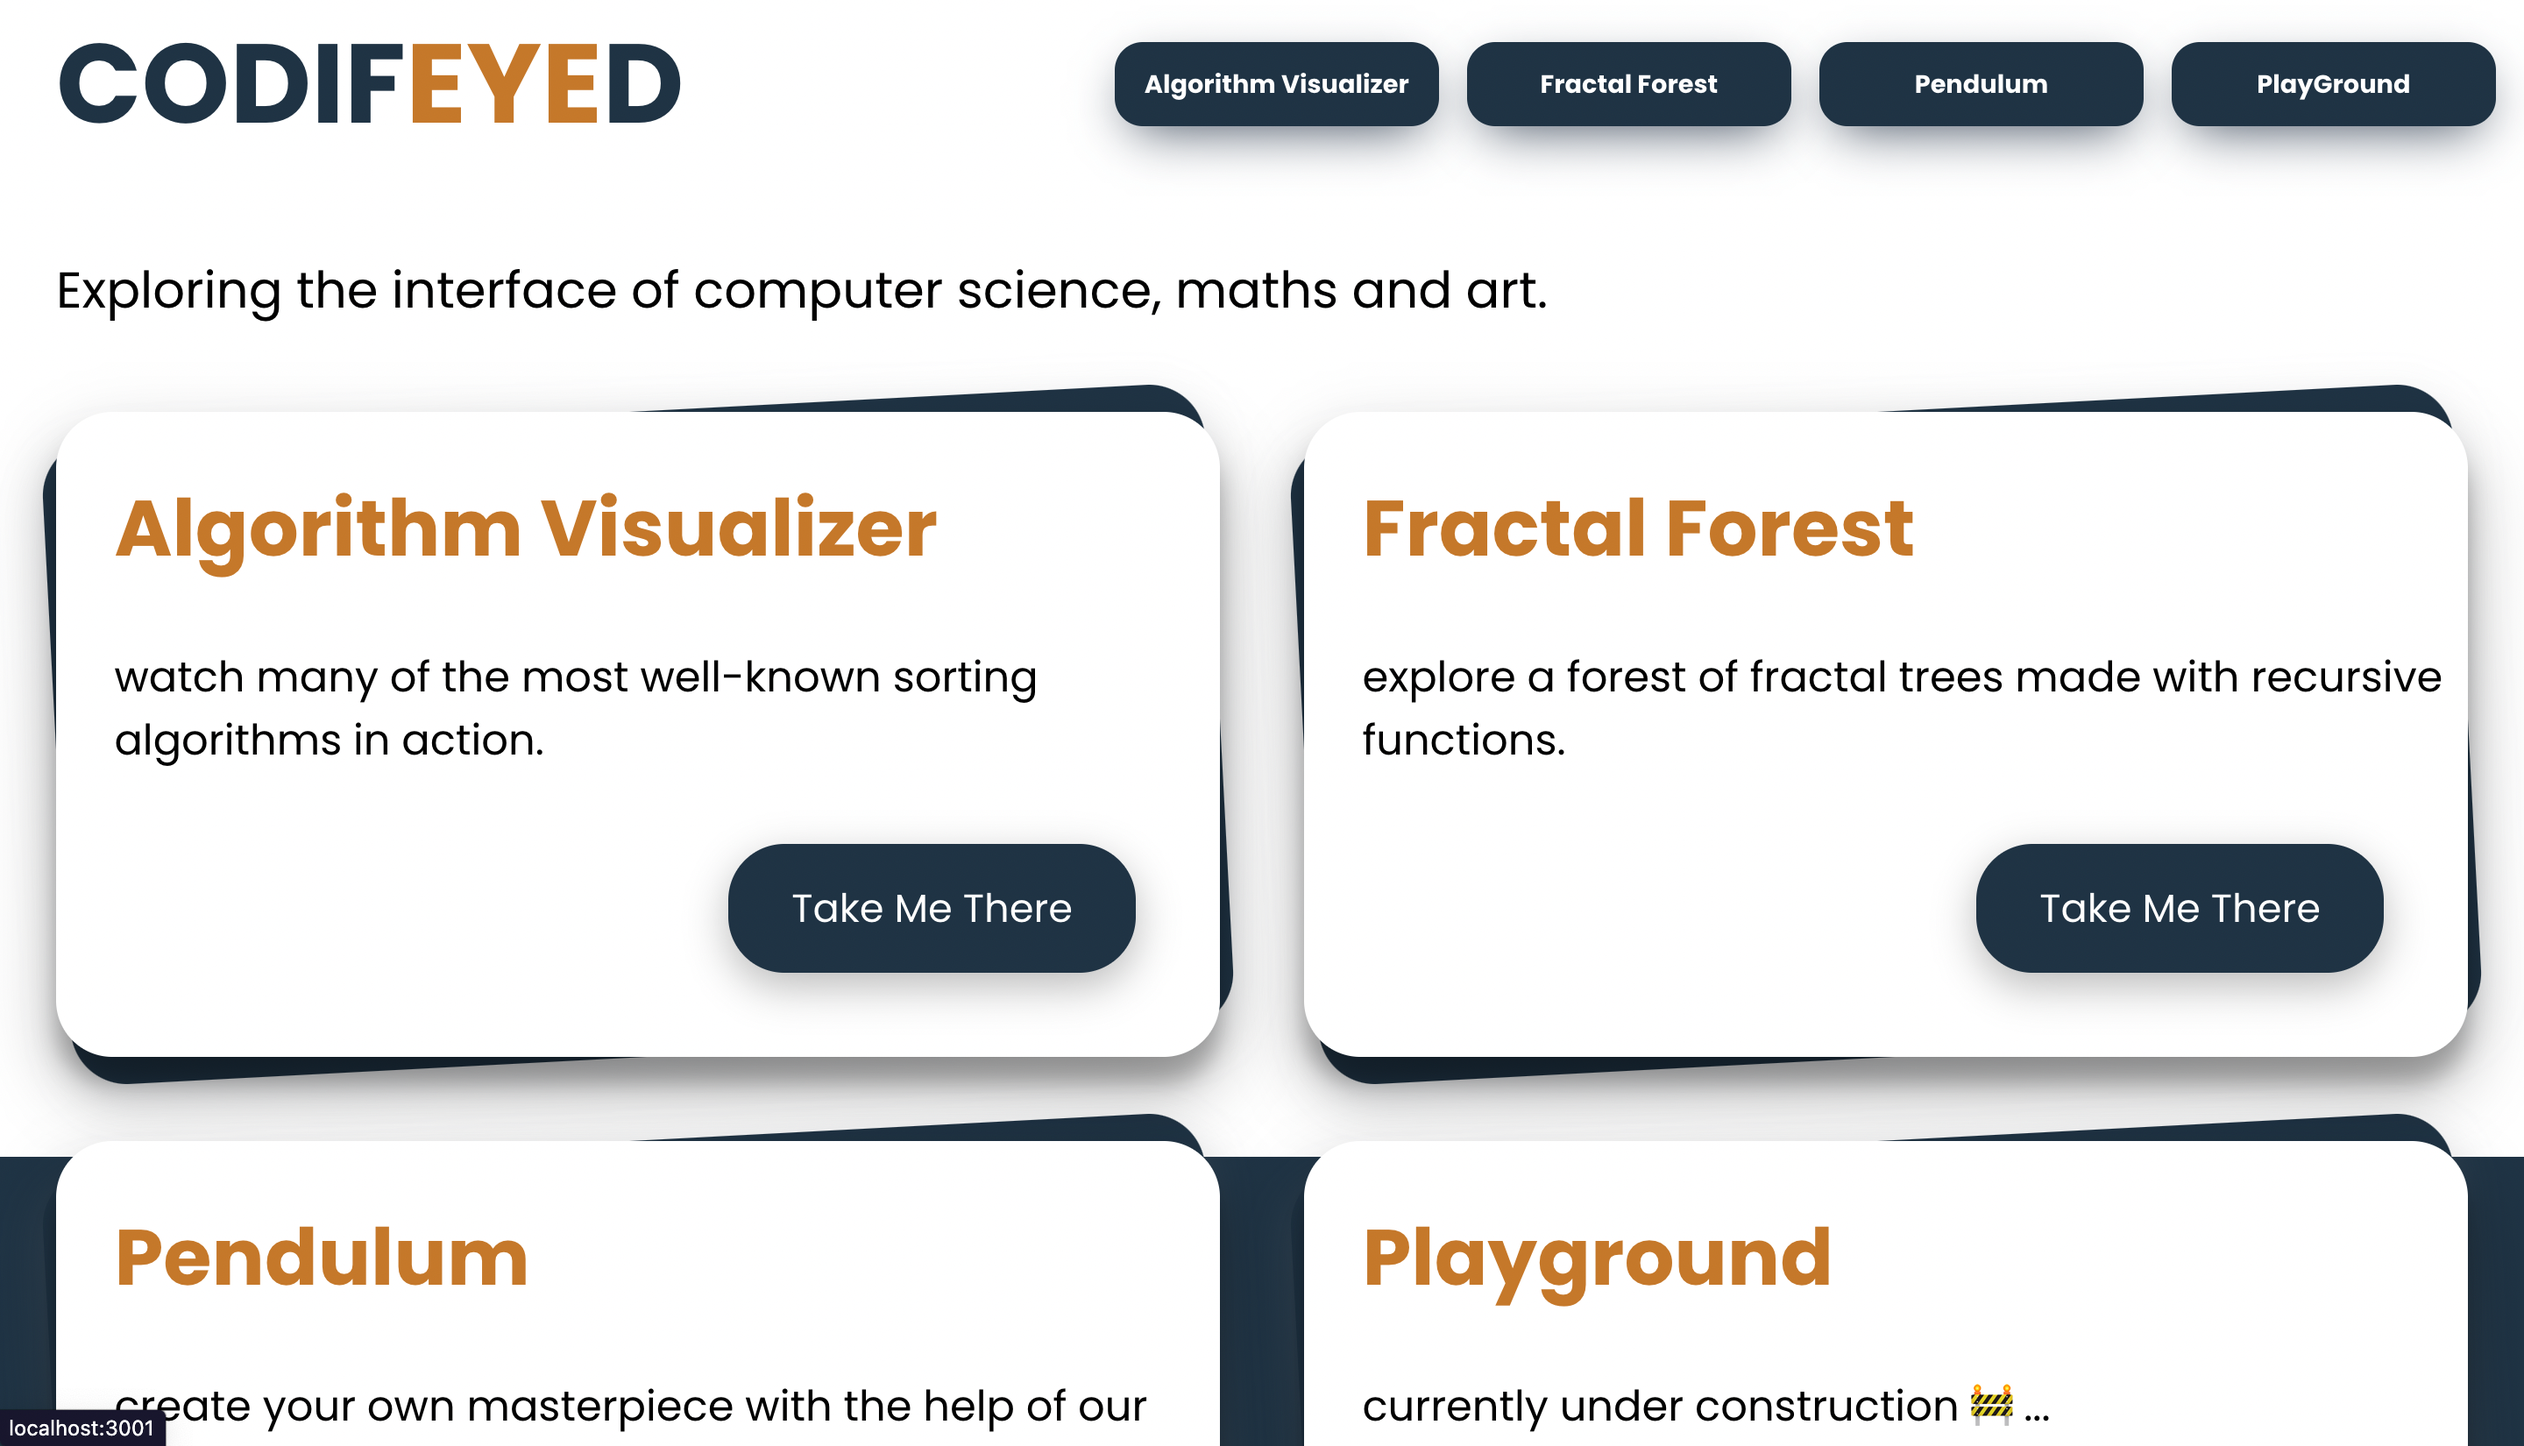
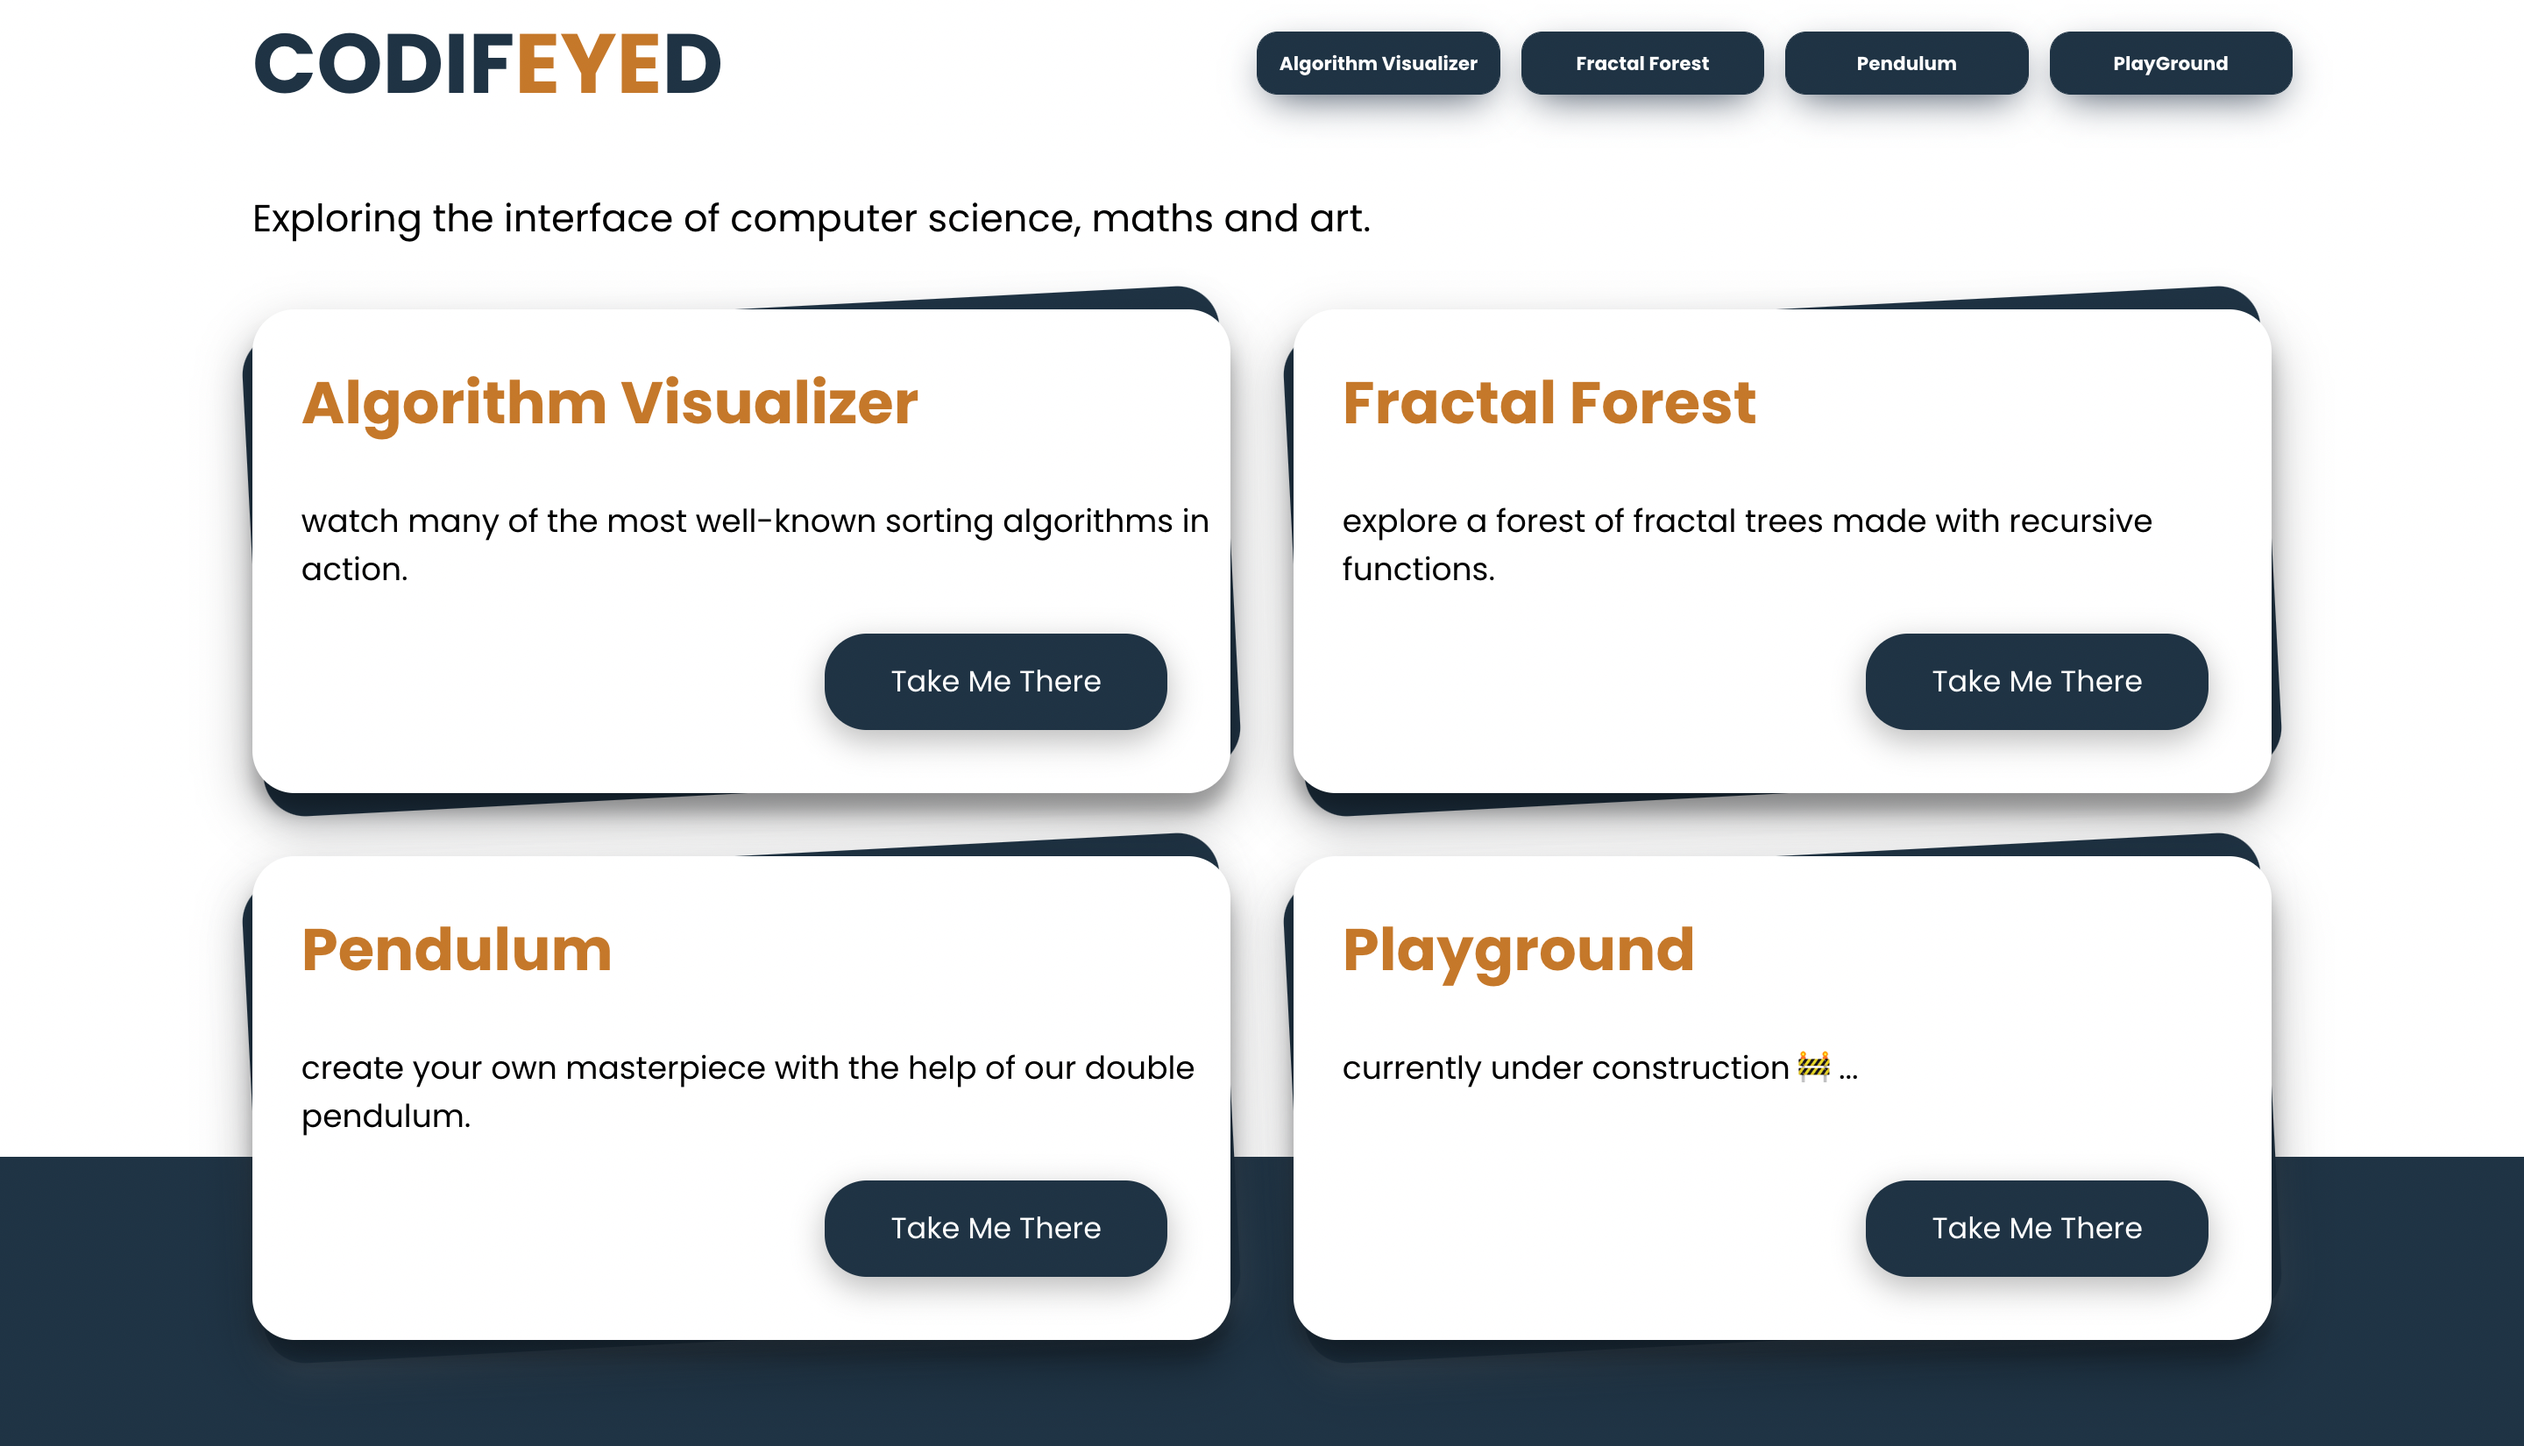
updated initial structure

diff --git a/public/Logos.js b/public/Logos.js
@@ -10,15 +10,15 @@ export const PrismaLogo = () => {
       <g fill='#ecf0f3'>
         <path d='m199.202 85.75h8.638v-31.662h-8.638zm-.367-39.847c0-2.813 1.567-4.219 4.701-4.219 3.133 0 4.701 1.406 4.701 4.219 0 1.341-.392 2.384-1.175 3.13-.784.746-1.959 1.118-3.526 1.118-3.134 0-4.701-1.416-4.701-4.248z' />
         <path
-          clip-rule='evenodd'
+          clipRule='evenodd'
           d='m164.253 67.483c2.786-2.36 4.178-5.767 4.178-10.223 0-4.286-1.307-7.51-3.922-9.672-2.615-2.16-6.433-3.242-11.456-3.242h-13.225v41.404h8.779v-14.727h3.767c5.135 0 9.095-1.179 11.879-3.54zm-12.757-3.653h-2.889v-12.29h3.993c2.398 0 4.158.49 5.282 1.472 1.123.982 1.685 2.502 1.685 4.56 0 2.038-.67 3.591-2.011 4.658s-3.36 1.6-6.06 1.6z'
-          fill-rule='evenodd'
+          fillRule='evenodd'
         />
         <path d='m194.62 53.748c-.774-.17-1.746-.255-2.917-.255-1.964 0-3.781.543-5.451 1.628a11.908 11.908 0 0 0 -3.98 4.291h-.424l-1.275-5.324h-6.542v31.662h8.638v-16.114c0-2.549.769-4.532 2.307-5.948 1.54-1.416 3.687-2.124 6.444-2.124 1.001 0 1.85.095 2.549.283zm40.245 30.02c2.257-1.7 3.385-4.172 3.385-7.42 0-1.567-.273-2.917-.821-4.05-.547-1.133-1.398-2.133-2.549-3.002-1.151-.868-2.964-1.802-5.438-2.803-2.775-1.114-4.573-1.955-5.394-2.521s-1.233-1.236-1.233-2.011c0-1.378 1.275-2.067 3.824-2.067 1.434 0 2.841.217 4.219.65 1.378.436 2.861.992 4.447 1.672l2.605-6.23c-3.606-1.661-7.316-2.492-11.13-2.492-4.003 0-7.093.769-9.273 2.308-2.183 1.539-3.273 3.714-3.273 6.527 0 1.643.26 3.026.78 4.149.518 1.124 1.349 2.12 2.493 2.988 1.14.869 2.931 1.813 5.365 2.832 1.699.718 3.059 1.345 4.079 1.883 1.019.539 1.737 1.02 2.153 1.445.415.425.622.977.622 1.657 0 1.812-1.567 2.718-4.702 2.718-1.529 0-3.299-.255-5.309-.764-2.012-.51-3.819-1.142-5.424-1.898v7.137a22.275 22.275 0 0 0 4.56 1.373c1.624.312 3.587.468 5.891.468 4.492 0 7.867-.85 10.123-2.55zm37.604 1.982h-8.638v-18.493c0-2.284-.383-3.998-1.146-5.14-.766-1.142-1.969-1.714-3.612-1.714-2.208 0-3.813.812-4.814 2.436s-1.501 4.295-1.501 8.015v14.896h-8.638v-31.662h6.599l1.161 4.05h.482c.849-1.454 2.077-2.592 3.681-3.413 1.605-.821 3.446-1.232 5.523-1.232 4.739 0 7.948 1.549 9.629 4.645h.764c.85-1.473 2.101-2.615 3.753-3.427s3.516-1.218 5.593-1.218c3.587 0 6.302.921 8.142 2.761 1.841 1.841 2.761 4.791 2.761 8.85v20.646h-8.666v-18.493c0-2.284-.383-3.998-1.146-5.14-.766-1.142-1.969-1.714-3.612-1.714-2.114 0-3.695.756-4.744 2.266-1.047 1.511-1.571 3.908-1.571 7.193z' />
         <path
-          clip-rule='evenodd'
+          clipRule='evenodd'
           d='m318.222 81.445 1.671 4.305h6.032v-21.099c0-3.776-1.133-6.589-3.398-8.439-2.266-1.85-5.523-2.776-9.771-2.776-4.436 0-8.477.954-12.121 2.861l2.86 5.834c3.417-1.53 6.391-2.294 8.921-2.294 3.285 0 4.928 1.605 4.928 4.814v1.388l-5.494.17c-4.739.17-8.283 1.053-10.635 2.648-2.35 1.596-3.525 4.074-3.525 7.434 0 3.21.873 5.683 2.619 7.42 1.747 1.737 4.139 2.605 7.18 2.605 2.473 0 4.479-.354 6.017-1.062 1.539-.708 3.035-1.977 4.489-3.809zm-4.22-10.252 3.342-.113v2.605c0 1.908-.6 3.437-1.799 4.588-1.198 1.152-2.799 1.728-4.8 1.728-2.794 0-4.191-1.218-4.191-3.653 0-1.7.613-2.964 1.841-3.795 1.227-.83 3.096-1.284 5.607-1.36zm-218.269 30.336-57.479 17c-1.756.52-3.439-.999-3.07-2.77l20.534-98.34c.384-1.838 2.926-2.13 3.728-.427l38.02 80.736c.717 1.523-.101 3.319-1.733 3.801zm9.857-4.01-44.022-93.482v-.002a7.062 7.062 0 0 0 -6.019-4.022c-2.679-.156-5.079 1.136-6.433 3.335l-47.744 77.33a7.233 7.233 0 0 0 .084 7.763l23.338 36.152c1.391 2.158 3.801 3.407 6.306 3.407.71 0 1.424-.1 2.126-.308l67.744-20.036a7.424 7.424 0 0 0 4.66-4.028 7.264 7.264 0 0 0 -.04-6.11z'
-          fill-rule='evenodd'
+          fillRule='evenodd'
         />
       </g>
     </svg>
@@ -49,8 +49,8 @@ export const TailwindLogo = () => {
       viewBox='0 0 256 153.6'
     >
       <linearGradient id='a' x1='-2.778%' y1='32%' y2='67.556%'>
-        <stop offset='0' stop-color='#2298bd' />
-        <stop offset='1' stop-color='#0ed7b5' />
+        <stop offset='0' stopColor='#2298bd' />
+        <stop offset='1' stopColor='#0ed7b5' />
       </linearGradient>
       <path
         d='M128 0C93.867 0 72.533 17.067 64 51.2 76.8 34.133 91.733 27.733 108.8 32c9.737 2.434 16.697 9.499 24.401 17.318C145.751 62.057 160.275 76.8 192 76.8c34.133 0 55.467-17.067 64-51.2-12.8 17.067-27.733 23.467-44.8 19.2-9.737-2.434-16.697-9.499-24.401-17.318C174.249 14.743 159.725 0 128 0zM64 76.8C29.867 76.8 8.533 93.867 0 128c12.8-17.067 27.733-23.467 44.8-19.2 9.737 2.434 16.697 9.499 24.401 17.318C81.751 138.857 96.275 153.6 128 153.6c34.133 0 55.467-17.067 64-51.2-12.8 17.067-27.733 23.467-44.8 19.2-9.737-2.434-16.697-9.499-24.401-17.318C110.249 91.543 95.725 76.8 64 76.8z'

diff --git a/components/About.jsx b/components/About.jsx
@@ -1,4 +1,3 @@
-import Image from 'next/image'
 import { useState, useEffect } from 'react'
 import { RoughNotation } from 'react-rough-notation'
 
@@ -10,51 +9,29 @@ export default function About() {
   }, [])
 
   return (
-    <section className='max-w-7xl mx-auto my-11'>
-      <RoughNotation
-        type='bracket'
-        brackets={['left', 'right']}
-        show={state}
-        animationDelay={900}
-        animationDuration={1000}
-        color='#000'
-      >
-        <div className='p-4'>
-          <div className='grid grid-cols-hero-layout gap-10'>
-            <div>
-              <h1 className='mx-auto w-auto'>Hey, I'm Dan.</h1>
-              <h1 className='mx-auto w-auto'>
-                Former Scientist, Aspiring Developer.
-              </h1>
-              <h2 className='text-base mt-4'>
-                After leaving a career in science, I embarked on a journey to
-                learn software engineering. I spent 6 months with (link) boolean
-                UK where i learnt the fundamentals of full stack development.
-                Throughout this experience i have honed my development skills.
-                Also exploring other technologies such as Next.js and
-                typeScript.
-              </h2>
-            </div>
-            <Image
-              src='/hero_img.jpeg'
-              width='300px'
-              height='300px'
-              objectFit='cover'
-            />
-          </div>
-          <div className='socials'>
-            <a
-              href='https://www.linkedin.com/in/daniel-northcott-750107204'
-              target='_blank'
-            >
-              <button className=''>LinkedIn</button>
-            </a>
-            <a href='https://github.com/Dan2024' target='_blank'>
-              <button className=''>GitHub</button>
-            </a>
-          </div>
+    <section className='max-w-7xl mx-auto my-11 border border-sky-500'>
+      <div className='py-4'>
+        <div>
+          <h2 className='text-base mt-4 '>
+            After leaving a career in science, I embarked on a journey to learn
+            software engineering. I spent 6 months with (link) boolean UK where
+            i learnt the fundamentals of full stack development. Throughout this
+            experience i have honed my development skills. Also exploring other
+            technologies such as Next.js and typeScript.
+          </h2>
         </div>
-      </RoughNotation>
+        {/* <div className='socials'>
+          <a
+            href='https://www.linkedin.com/in/daniel-northcott-750107204'
+            target='_blank'
+          >
+            <button className=''>LinkedIn</button>
+          </a>
+          <a href='https://github.com/Dan2024' target='_blank'>
+            <button className=''>GitHub</button>
+          </a>
+        </div> */}
+      </div>
     </section>
   )
 }

diff --git a/components/MyWork.jsx b/components/MyWork.jsx
@@ -5,13 +5,22 @@ export default function MyWork() {
     <section className='max-w-7xl mx-auto'>
       <h3>My Work</h3>
       <div className=''>
-        {/* <Image src='/codified.png' layout='fill' width={500} height={500} /> */}
-        <Image
-          src='/codified.png'
-          width='900px'
-          height='700px'
-          objectFit='cover'
-        />
+        <div className='w-1/2 h-96 relative overflow-hidden rounded-2xl'>
+          <Image
+            src='/codified.png'
+            layout='fill'
+            objectFit='cover'
+            objectPosition='top center'
+            quality='1'
+          />
+          <div>
+            <p>
+              CODIFEYED is a website I created focusing on Front-End design and
+              computer science topics i was only able to very briefly cover in
+              my bootcamp.
+            </p>
+          </div>
+        </div>
       </div>
     </section>
   )

diff --git a/components/HeroText.jsx b/components/HeroText.jsx
@@ -1,0 +1,31 @@
+import { useState, useEffect } from 'react'
+import { RoughNotation } from 'react-rough-notation'
+
+export default function HeroText() {
+  const [state, setState] = useState(false)
+
+  useEffect(() => {
+    setState(true)
+  }, [])
+
+  return (
+    <section className='max-w-7xl mx-auto my-11'>
+      <div className='py-4'>
+        <h1 className='mx-auto w-auto'>Hey, I'm Dan.</h1>
+        <h1 className='mx-auto w-auto'>
+          I'm a Scientist turned{' '}
+          {/* <RoughNotation
+              type='bracket'
+              brackets={['left', 'right']}
+              show={state}
+              animationDelay={900}
+              animationDuration={1000}
+              color='#000'
+            > */}
+          Developer.
+          {/* </RoughNotation> */}
+        </h1>
+      </div>
+    </section>
+  )
+}

diff --git a/pages/index.js b/pages/index.js
@@ -1,5 +1,6 @@
 import Head from 'next/head'
 import About from '../components/About'
+import HeroText from '../components/HeroText'
 import MyWork from '../components/myWork'
 import Navbar from '../components/Navbar'
 import SkillsAndTools from '../components/SkillsAndTools'
@@ -13,6 +14,7 @@ export default function Home() {
         <link rel='icon' href='/favicon.ico' />
       </Head>
       <Navbar />
+      <HeroText />
       <About />
       <SkillsAndTools />
       <MyWork />

diff --git a/components/SkillsAndTools.jsx b/components/SkillsAndTools.jsx
@@ -32,8 +32,8 @@ export default function SkillsAndTools() {
         </p>
 
         <div className='mx-auto mt-10 max-w-3xl grid grid-cols-icons-layout py-10 text-sm gap-20 child:grid child:place-items-center'>
-          {iconNames.map((iconName) => (
-            <div>
+          {iconNames.map((iconName, idx) => (
+            <div key={idx}>
               <DevIcon icon={iconName} style={devIconStyle} />
               {iconName.toUpperCase()}
             </div>
